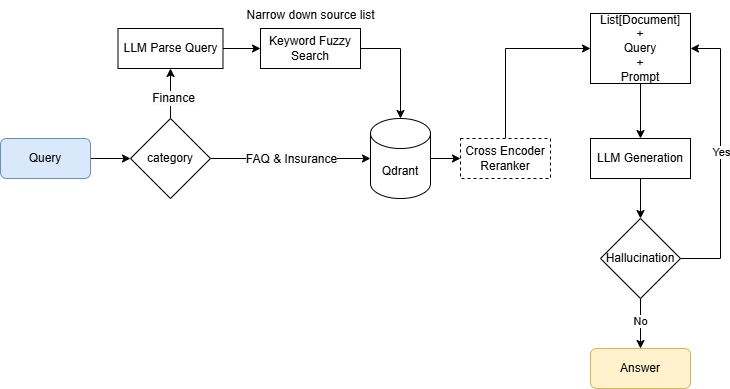
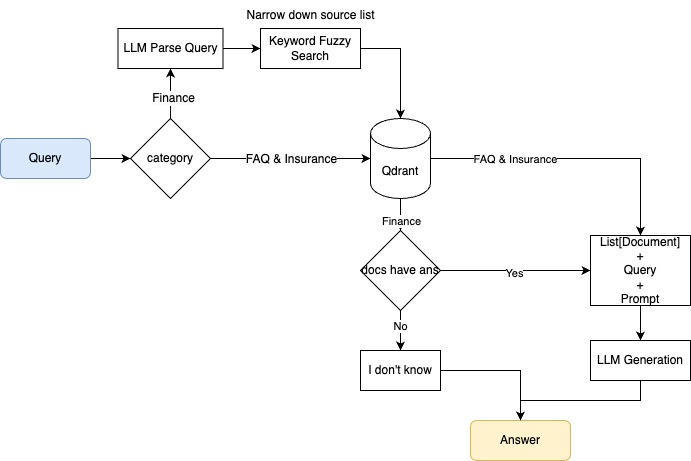
docs: update function docstrings and README

diff --git a/graph/nodes.py b/graph/nodes.py
@@ -41,6 +41,18 @@ def create_embedding_model(
 
 
 def route_question(state: QAState) -> str:
+    """
+    Route a question to the appropriate processing function based on the category.
+
+    Args:
+        state: QAState containing the question to route.
+
+    Returns:
+        The name of the processing function to call.
+
+    Raises:
+        ValueError: If the category is unknown.
+    """
     routing_map = {
         "insurance": "process_insurance",
         "finance": "process_finance",
@@ -55,6 +67,15 @@ def route_question(state: QAState) -> str:
 
 
 def insurance_node(state: QAState) -> QAState:
+    """
+    Process an insurance question and return the answer.
+
+    Args:
+        state: QAState containing the question to process.
+
+    Returns:
+        QAState with the processed answer.
+    """
     embedding_model = create_embedding_model(model_name="BAAI/bge-m3")
     vector_store = QdrantVectorStore(
         client=state["client"],
@@ -84,6 +105,22 @@ def insurance_node(state: QAState) -> QAState:
 
 
 def finance_retrieve(state: QAState) -> QAState:
+    """
+    Process a finance-related question to retrieve relevant documents and update the QA state.
+
+    Args:
+        state (QAState): The current QA state containing the question and other necessary data.
+
+    Returns:
+        QAState: The updated QA state with retrieved documents and additional processing results.
+
+    This function preprocesses the finance question, initializes embedding models, and performs
+    document retrieval using both chunk and table vector stores. It applies a fuzzy search engine
+    for preliminary retrieval and adjusts the number of documents retrieved based on token count
+    constraints. The function ensures efficient memory usage by clearing caches and deleting models
+    when no longer needed.
+    """
+
     # query 預處理
     Q = query_preprocessor(finance_question_set=[state["question"]])[0]
 
@@ -136,7 +173,7 @@ def finance_retrieve(state: QAState) -> QAState:
             if fuzzy_retrieve and count_tokens(fuzzy_retrieve) < 6000
             else qdrant_dense_search(state["question"], vector_store_table, k=k)
         )
-        
+
         # 判斷 retrieve_doc 的類型，並計算 token 數量
         if isinstance(state["retrieve_doc"], str):
             token_count = count_tokens(state["retrieve_doc"])
@@ -161,10 +198,30 @@ def finance_retrieve(state: QAState) -> QAState:
 
 
 def llm_eval_retrieve(state: QAState) -> Literal["yes", "no"]:
+    """
+    Evaluates whether the retrieved document contains the answer to the question
+    using a large language model (LLM).
+
+    Args:
+        state (QAState): The state of the graph, containing the question and retrieved document.
+
+    Returns:
+        Literal["yes", "no"]: Whether the retrieved document contains the answer to the question.
+    """
     return document_contains_answer_check(state["question"], state["retrieve_doc"])
 
 
 def i_dont_know(state: QAState) -> QAState:
+    """
+    Handles cases where the answer to the question is unknown.
+
+    Args:
+        state (QAState): The current state containing the question data.
+
+    Returns:
+        QAState: The updated state with an answer indicating the answer is unknown.
+    """
+
     state["answer"] = {
         "qid": state["question"]["qid"],
         "query": state["question"]["query"],
@@ -176,6 +233,15 @@ def i_dont_know(state: QAState) -> QAState:
 
 
 def finance_generation(state: QAState) -> QAState:
+    """
+    生成財務問題的答案。
+
+    Args:
+        state (QAState): QAState 實例，包含問題和檢索的文件。
+
+    Returns:
+        QAState: 更新的 QAState 實例，包括生成的答案。
+    """
     state["answer"] = {
         "qid": state["question"]["qid"],
         "query": state["question"]["query"],
@@ -187,6 +253,15 @@ def finance_generation(state: QAState) -> QAState:
 
 
 def faq_node(state: QAState) -> QAState:
+    """
+    Processes a FAQ question and returns the answer.
+
+    Args:
+        state (QAState): QAState containing the question to process.
+
+    Returns:
+        QAState: Updated QAState with the answer to the question.
+    """
     embedding_model = create_embedding_model(
         model_name="intfloat/multilingual-e5-large"
     )

diff --git a/Evaluation/utils.py b/Evaluation/utils.py
@@ -2,6 +2,9 @@ from openai import AzureOpenAI
 import logging
 
 def get_prompt():
+    """
+    Return the prompt and example strings for the evaluation task.
+    """
     INSTRUCTIONS = """
     # 任務:
     你是專業的繁體中文助手，你會得到一個問題、一個模型預測和一個真實答案列表，判斷模型預測是否與真實答案列表中的任何答案匹配。按照以下步驟進行判斷。
@@ -33,6 +36,16 @@ def get_prompt():
 
 class REFEREE_Model():
     def __init__(self, azure_deployment_name, azure_openai_api_key, api_version, azure_endpoint):
+        
+        """
+        Initialize the REFEREE model with the given parameters.
+
+        Parameters:
+        azure_deployment_name (str): The name of the Azure OpenAI deployment.
+        azure_openai_api_key (str): The API key for Azure OpenAI.
+        api_version (str): The version of the Azure OpenAI API.
+        azure_endpoint (str): The endpoint URL of the Azure OpenAI API.
+        """
         self.gpt_engine = azure_deployment_name
         self.gpt_client = AzureOpenAI(
                 api_key=azure_openai_api_key,  
@@ -59,6 +72,16 @@ class REFEREE_Model():
 
 
     def generate_response(self, messages, idx):
+        """
+        依據傳入的系統提示、問題、標準答案與模型預測答案，使用 GPT 產生回應。
+
+        Args:
+            messages (list): 系統提示、問題、標準答案與模型預測答案的列表
+            idx (int): 問題的 id
+
+        Returns:
+            str: GPT 產生的回應
+        """
         logging.basicConfig(level=logging.INFO, filename='log_generate_response.txt',
             format='[%(asctime)s %(levelname)-8s] %(message)s',
             datefmt='%Y%m%d %H:%M:%S',

diff --git a/main.py b/main.py
@@ -21,6 +21,28 @@ logging.basicConfig(
 
 
 def main(question_set, doc_set):
+    """
+    Main function to generate answers.
+
+    This function takes a question set and a document set, construct a workflow graph,
+    and invokes the graph to generate answers for each question.
+
+    The results are stored in a JSON file named "generation_result.json"
+    and "pred.json".
+
+    Args:
+        question_set (Dict[str, Any]): A dictionary containing question data.
+            The dictionary should contain a key "questions" whose value is a list
+            of dictionaries, each containing a question. Each question dictionary
+            should contain at least two keys: "qid" and "query".
+        doc_set (Dict[str, Any]): A dictionary containing document data.
+            The dictionary should contain a key "docs" whose value is a list of
+            dictionaries, each containing a document. Each document dictionary
+            should contain at least one key: "id".
+
+    Returns:
+        None
+    """
     start_time = datetime.now()
 
     load_dotenv()

diff --git a/Preprocess/load_to_Qdrant_finance_layout.py b/Preprocess/load_to_Qdrant_finance_layout.py
@@ -13,6 +13,20 @@ from tqdm import tqdm
 
 
 def process_json(file_path: str) -> List[tuple[Document, str]]:
+    """
+    Processes a JSON file from a given file path and returns a list of Document objects and their corresponding IDs.
+    
+    The JSON file is expected to have the following structure:
+    {
+        "source_id_page": "content"
+    }
+    
+    Where "source_id_page" is a string of the format "source_id_page" and "content" is the page content.
+    
+    The function returns a list of tuples, where each tuple contains a Document object and its corresponding ID.
+    The Document object contains the page content and metadata containing the source ID, page, category and file source.
+    The ID is a randomly generated UUID.
+    """
     with open(file_path, "r", encoding="utf-8") as file:
         data = json.load(file)
 

diff --git a/Preprocess/extract_table_by_vision_model.py b/Preprocess/extract_table_by_vision_model.py
@@ -195,6 +195,13 @@ def process_images_in_batches(
 
 def main():
     # Azure OpenAI Configuration
+    """
+    Main entry point for the script.
+    It reads a file containing a list of pdf documents,
+    converts each pdf page to an image,
+    and uses the Azure OpenAI GPT-4o model to generate text from the images.
+    The output is saved in a directory as json files.
+    """
     azure_config = {
         "azure_endpoint": os.getenv("AZURE_OPENAI_ENDPOINT"),
         "api_key": os.getenv("AZURE_OPENAI_API_KEY"),

diff --git a/Model/utils.py b/Model/utils.py
@@ -11,4 +11,5 @@ def count_tokens(text: str) -> int:
 
 
 def format_docs(docs: List[Document]):
+    """Formats a list of documents into a single string."""
     return "\n".join(doc.page_content for doc in docs)

diff --git a/graph/state.py b/graph/state.py
@@ -1,3 +1,7 @@
+"""
+流程中傳遞資訊用的類別物件
+"""
+
 from typing import Any, Dict, List, Union
 
 from langchain_core.documents import Document

diff --git a/README.md b/README.md
@@ -14,19 +14,25 @@
 </div>
 
 ## 專案流程
-### 1. 資料前處理 (Preprocess)
+### 1. 資料前處理
 - 取出 pdf 內文字並進行清洗、標註
 
 - 將大段文字切割為小塊 (chunking) 並匯入 Qdrant 向量資料庫中
 
 - 此步驟為獨立執行，未包含於 `main.py` 中
 
-### 2. 檔案檢索 (Model)
+### 2. 檔案檢索
 - 透過 Qdrant 進行密集向量檢索，取得最能回答 query 的文件與編號
 
 - 對於 insurance 資料進一步透過 cross encoder reranker 進行重排，提高檢索準確度
 
-- 針對 finance 相關查詢，先利用 llama-cpp-python 跑地端小型 LLM 進行解析。接著用提取出的關鍵字進行模糊搜尋快速找出關鍵財報文件。若多個文檔符合關鍵字，搭配 dense search 與 reranker 做語義檢索取得最相關文件
+- 針對 finance 相關查詢，先利用 LLM 進行解析。接著用提取出的關鍵字進行模糊搜尋快速找出關鍵財報文件。若多個文檔符合關鍵字，搭配 dense search 與 reranker 做語義檢索取得最相關文件
+
+### 3. 生成回覆
+- 將檢索到的文檔交給 LLM 生成回應
+
+- 若 LLM 判斷文檔不含解答，則回覆"不知道"
+
 
 ## 環境設置
 1. 環境需求
@@ -42,7 +48,8 @@
         - `.env` 設置連線參數
 
 2. 模型下載  
-本專案使用 Qwen2.5-3B-Instruct-GGUF 模型進行財報相關 query 前處理。使用前先至 [HuggingFace](https://huggingface.co/Qwen/Qwen2.5-3B-Instruct-GGUF) 下載對應模型並放置於頂層資料夾
+本專案使用 Breeze-7B-Instruct-v1_0-Q8_0-GGUF 模型。使用前先至 [HuggingFace](https://huggingface.co/Chun-Yu/Breeze-7B-Instruct-v1_0-Q8_0-GGUF/) 下載對應模型並放置於頂層資料夾
+
 
 ## 使用說明
 ### 資料前處理
@@ -74,12 +81,13 @@
     python split_insurance_section.py
     ```
 
-### 啟動查詢檢索
-`main.py` 包含查詢的預處理與檢索流程。執行指令如下：
+### 啟動查詢檢索生成
+`main.py` 包含查詢的預處理、檢索流程、答案生成。執行指令如下：
 ```bash
 python main.py --questions_path {path_to_question} --parsed_finance_path {path_to_finance_json}
 ```
-- 執行完會產生 `retrieval_result.json` 檔案為檢索結果
+- 執行完會產生 `generation_result.json` 檔案為最終檢索與生成結果
+
 
 ## 結果評估
 ### 檢索準確度
